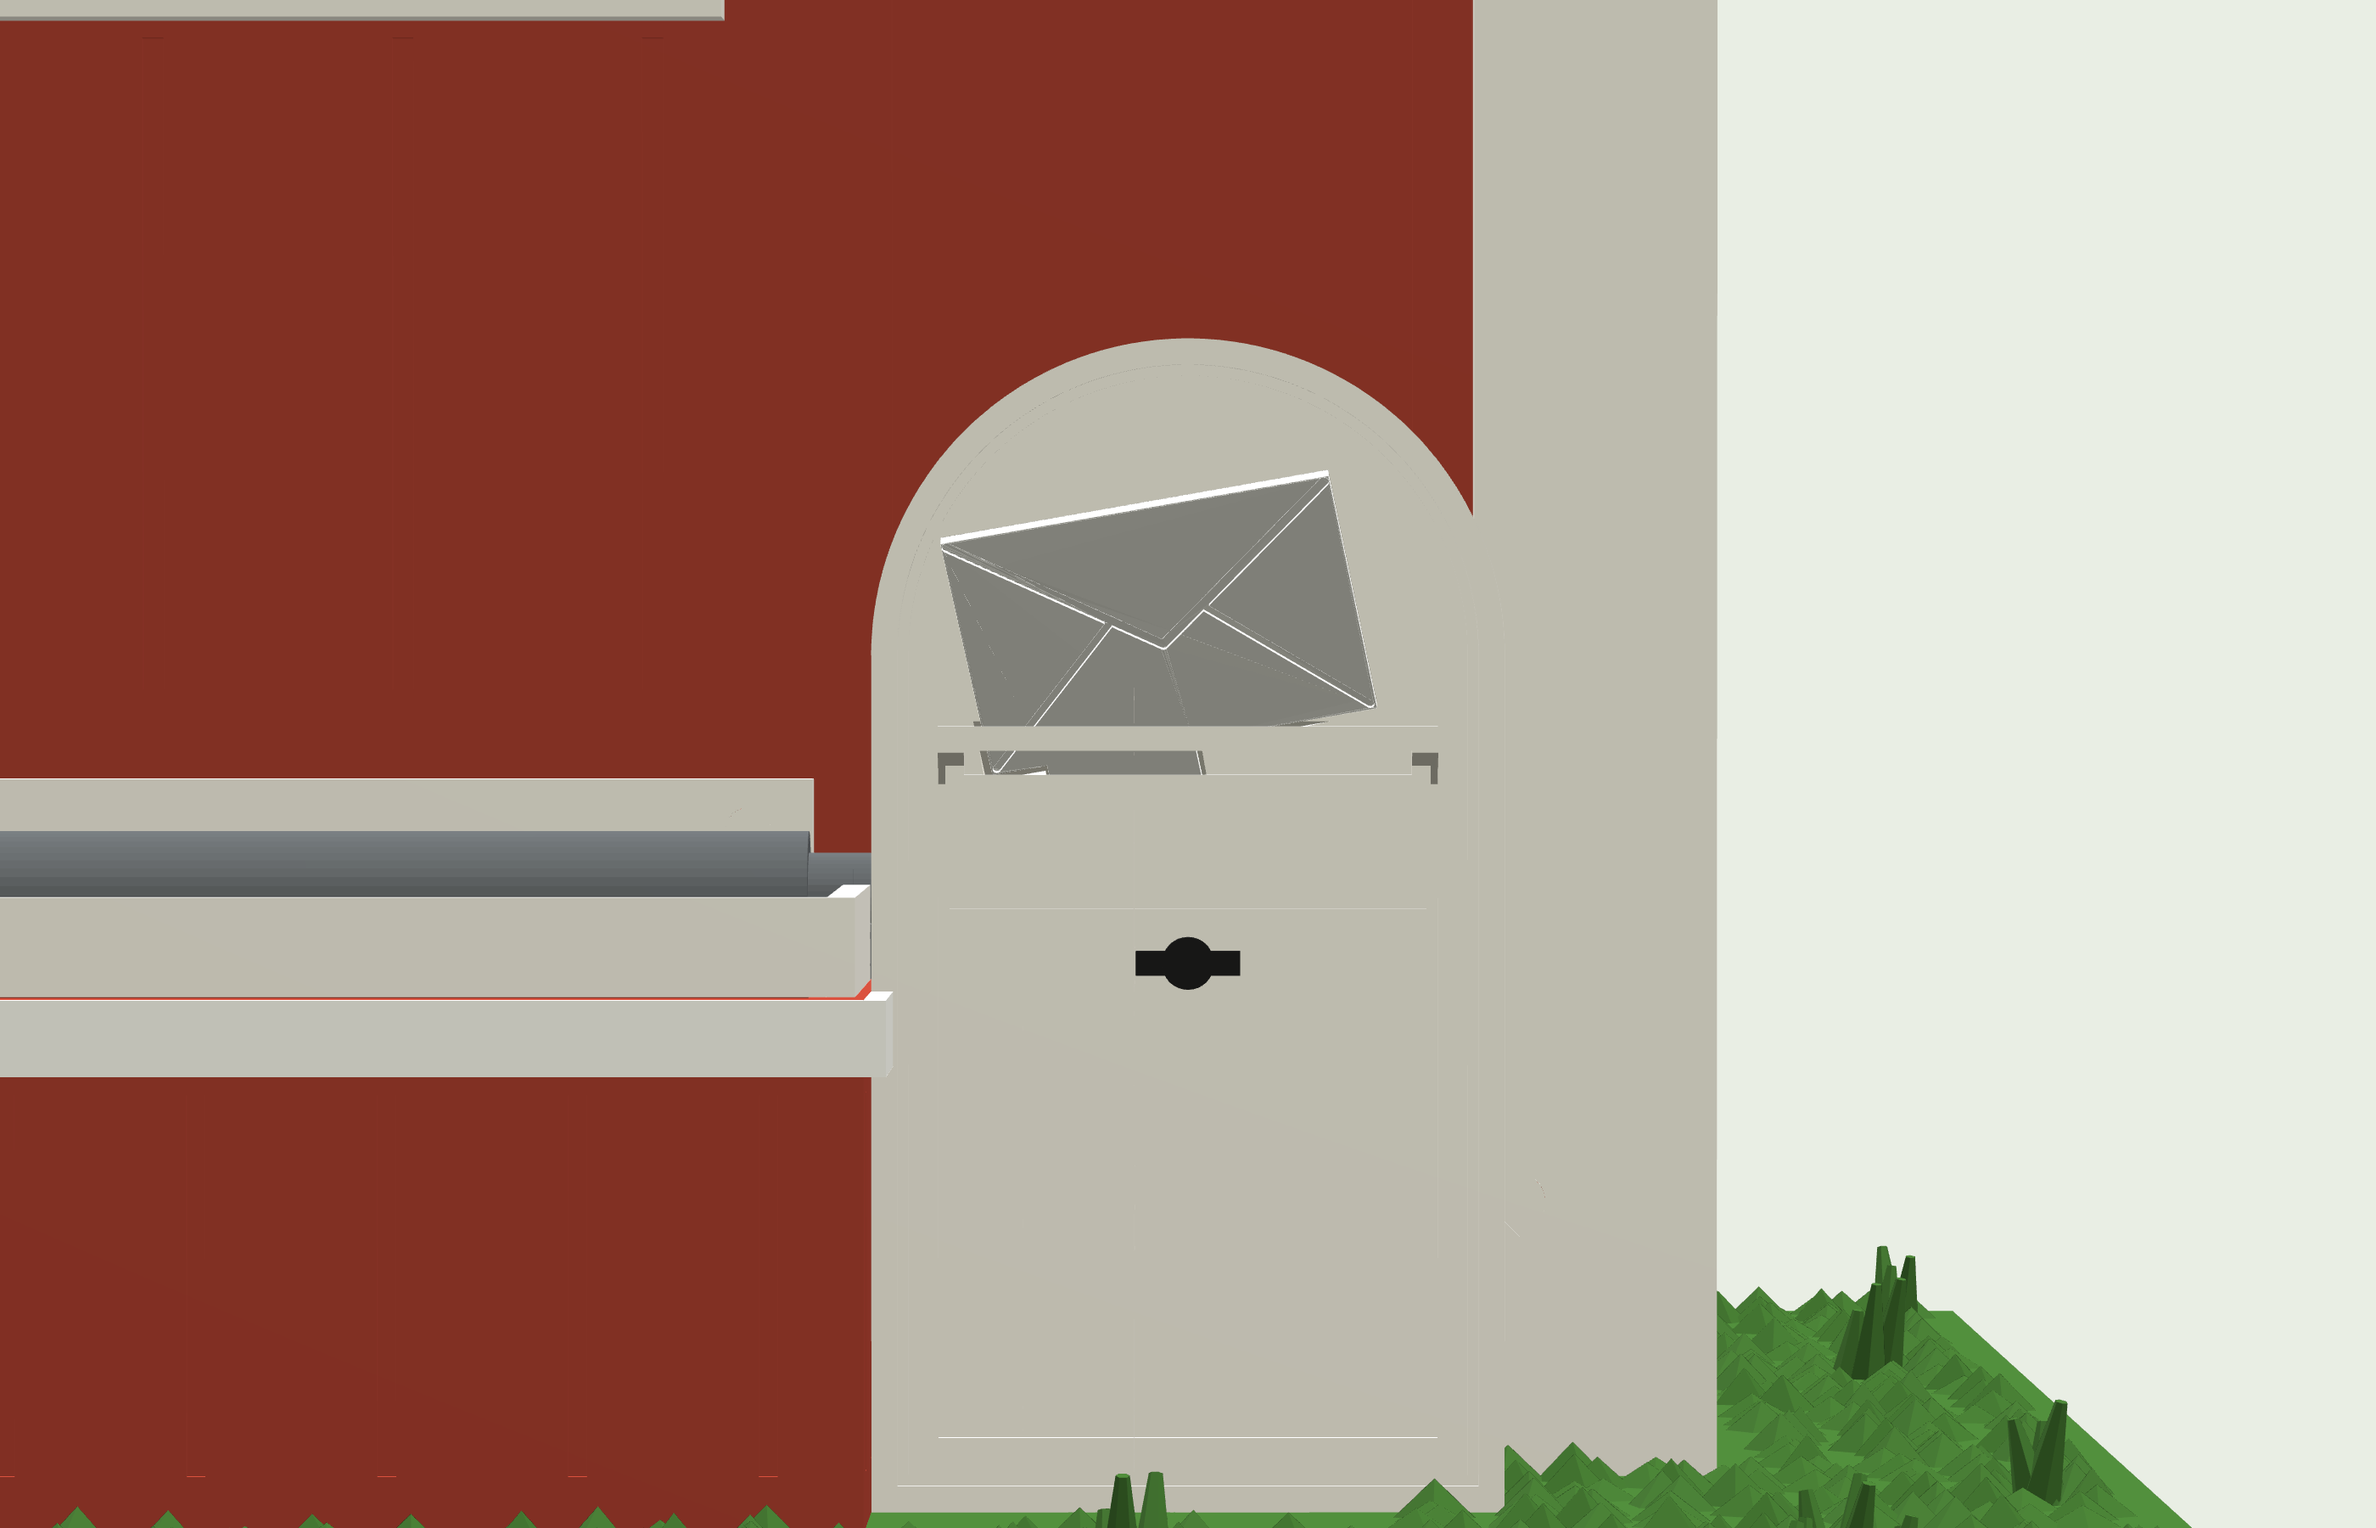
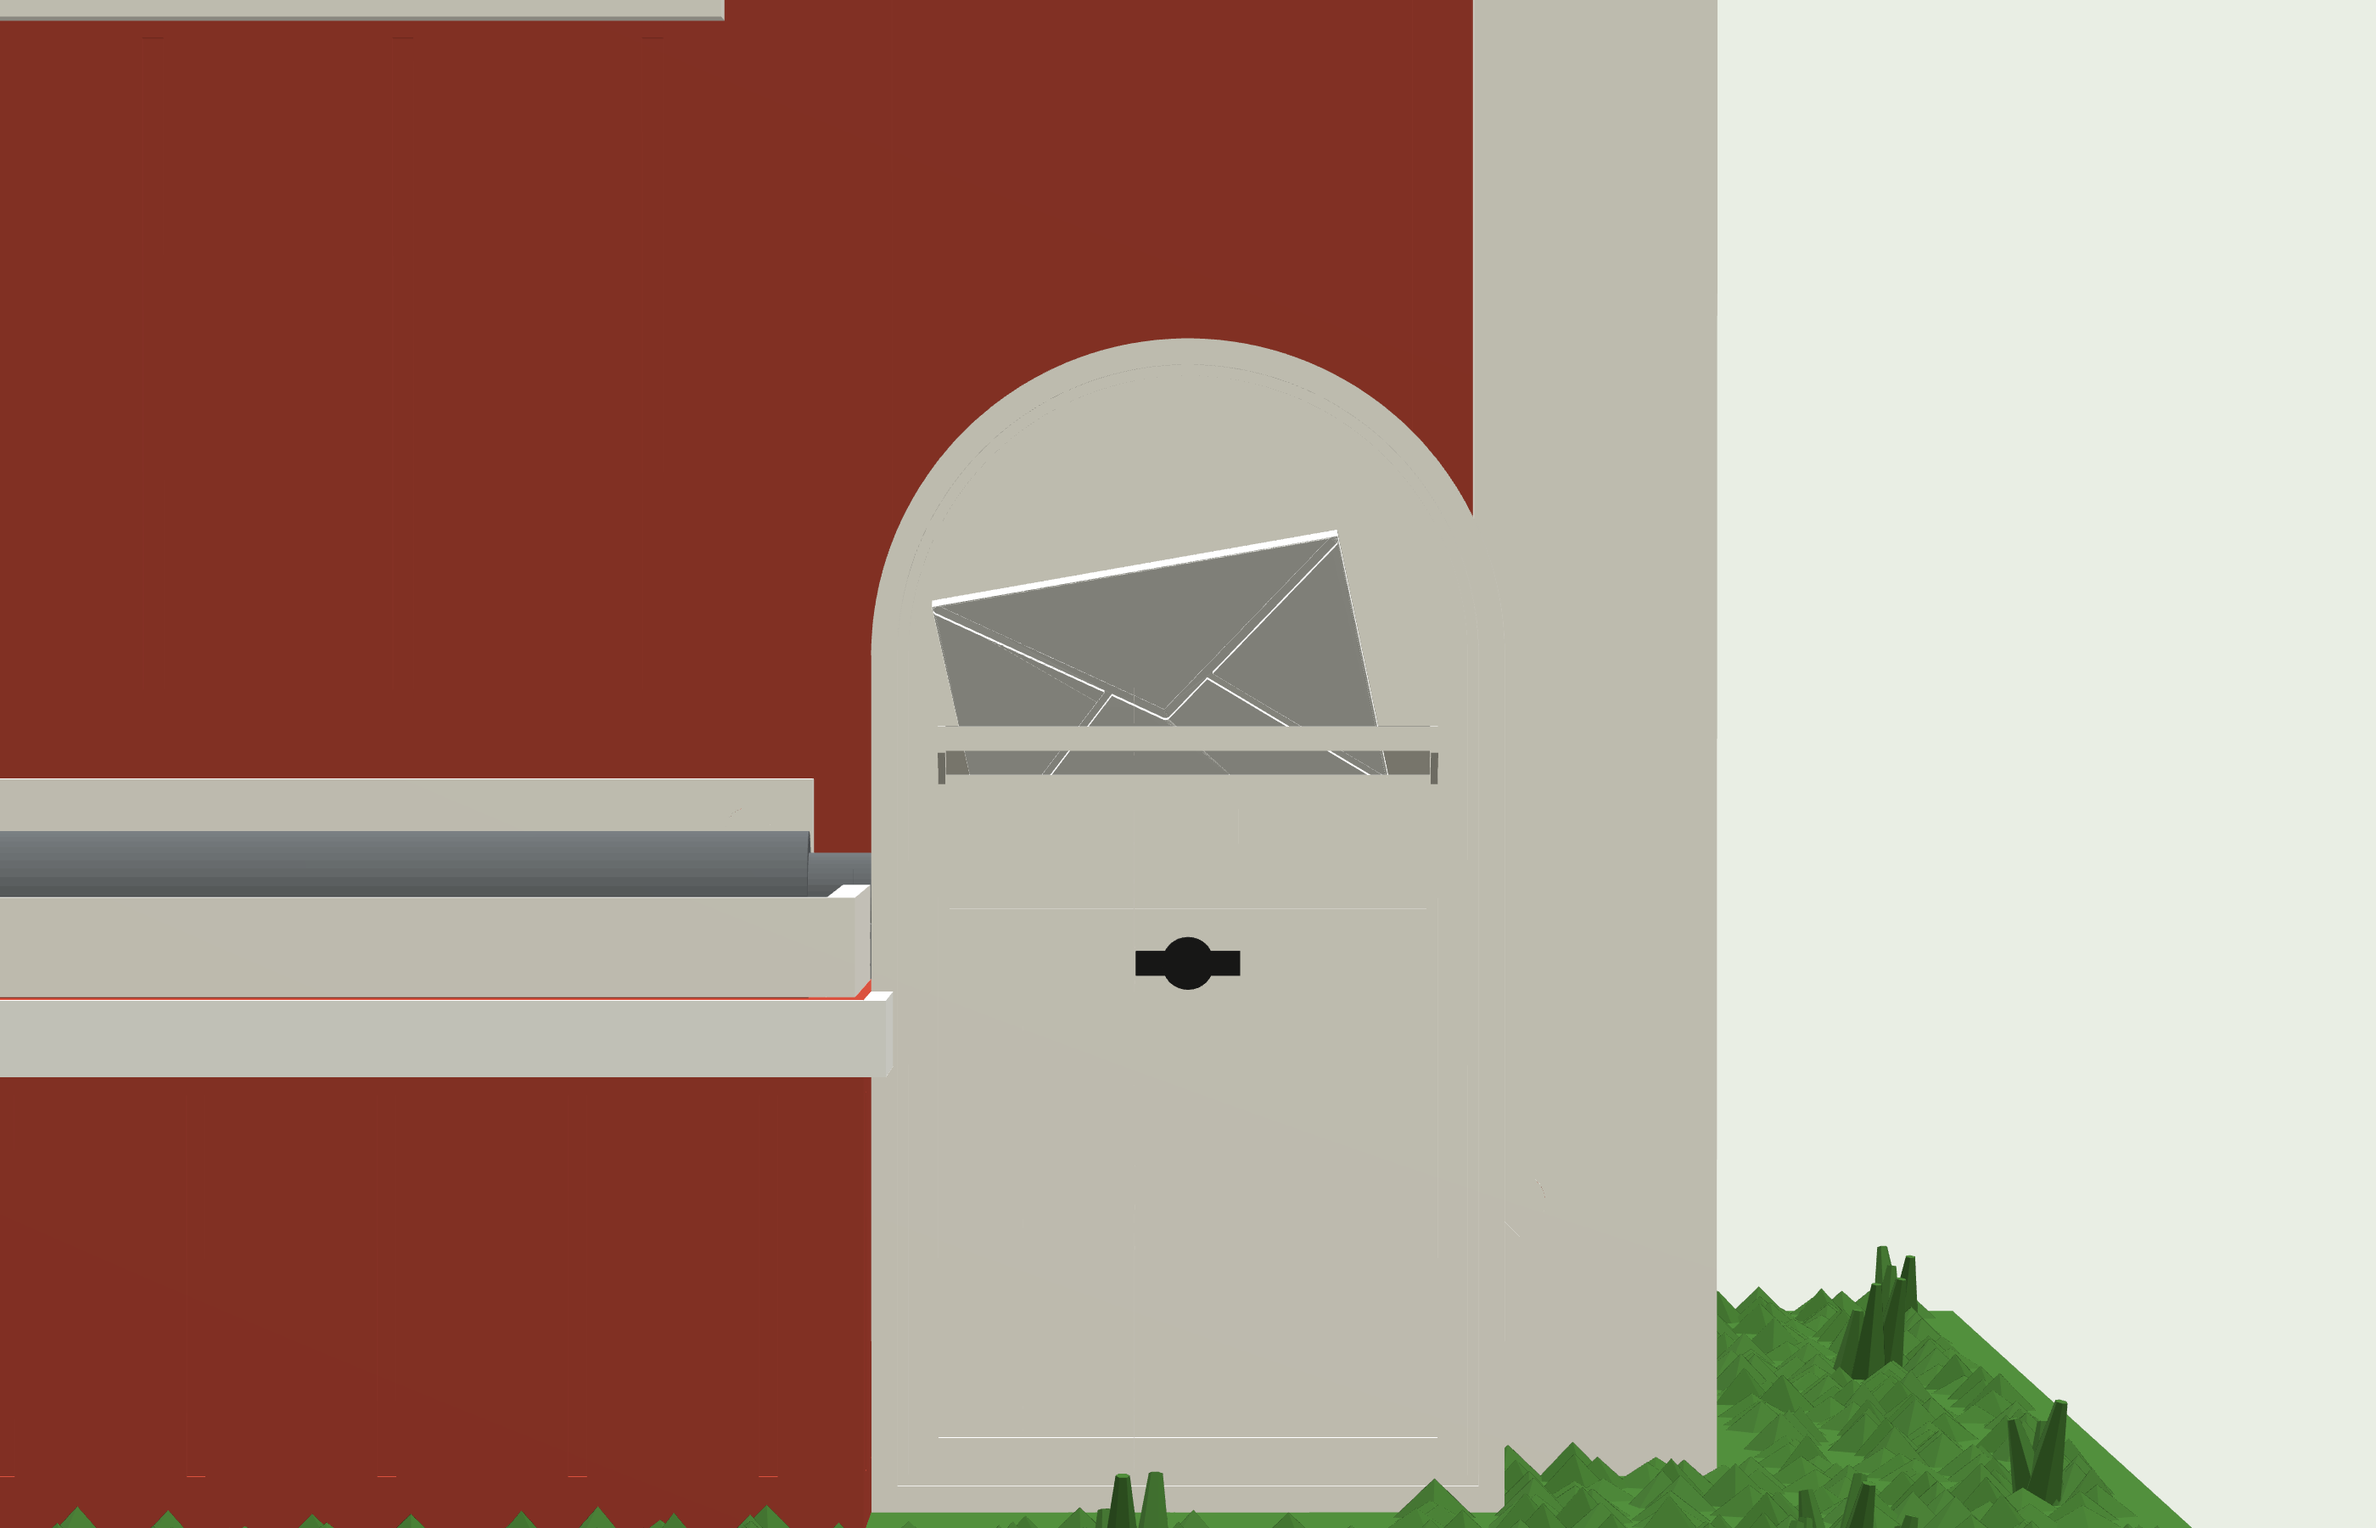
Skiss: löstagbart kuvert i en slits, avskuret rakt av springan
Claude-Session: https://claude.ai/code/session_018xksXR9gb4yYHdCGmvWeKU

Changed region(s): [[0.3729, 0.3111, 0.5593, 0.5289], [0.4971, 0.4356, 0.5904, 0.5289]]

diff --git a/cad/brevlada_kuvert_skiss.py b/cad/brevlada_kuvert_skiss.py
@@ -3,32 +3,41 @@ from shapely.geometry import Polygon, LineString
 src = open('/home/user/lennart/cad/brevlada.py').read().split('# ---------------- distans')[0]
 ns = {}; sys.argv = ['x', '/dev/null', '/dev/null']; exec(src, ns)
 U, D, box = ns['U'], ns['D'], ns['box']; body, hat, lock = ns['body'], ns['hat'], ns['lock']; fr = ns['Y0']; X0, X1 = ns['X0'], ns['X1']
-W, H, TH = 21.0, 14.0, 0.8           # kuvertet: bredd, höjd, tjocklek
+W, H, TH = 22.0, 15.0, 0.8           # kuvertet: bredd, höjd, tjocklek
 TILT, ROT = 64.0, 11.0               # lutning från horisontalplanet, vridning i planet
-TONG = (3.0, 11.0, 5.0)              # tunga in i lådan: u från, u till, längd
-P0 = np.array([46.5, fr + 0.6, 39.75])     # vänstra nedre hörnet, i springan
+UC, VC = 57.0, -2.6                  # kuvertets nederkant (mitt) i planet: x och avstånd under springan
+P0 = np.array([0.0, fr + 0.6, 39.75])     # springans linje i kuvertets plan (u = x)
+from shapely import affinity
 def frame():
-    t, r = np.radians(TILT), np.radians(ROT)
-    u0 = np.array([1.0, 0, 0]); v0 = np.array([0, -np.cos(t), np.sin(t)])
-    u = np.cos(r) * u0 + np.sin(r) * v0; v = -np.sin(r) * u0 + np.cos(r) * v0; n = np.cross(u, v)
-    return u, v, n
+    t = np.radians(TILT)
+    u = np.array([1.0, 0, 0]); v = np.array([0, -np.cos(t), np.sin(t)]); return u, v, np.cross(u, v)
 def plate(poly, th, off=0.0):
     u, v, n = frame()
     m = trimesh.creation.extrude_polygon(poly, th); m.apply_translation([0, 0, -th / 2 + off])
     T = np.eye(4); T[:3, 0], T[:3, 1], T[:3, 2], T[:3, 3] = u, v, n, P0
     m.apply_transform(T); return m
-env = Polygon([(0, 0), (W, 0), (W, H), (0, H)]).buffer(0.4, join_style=1).buffer(-0.4, join_style=1)
-tongue = Polygon([(TONG[0], -TONG[2]), (TONG[1], -TONG[2]), (TONG[1], 0.5), (TONG[0], 0.5)])
-letter = plate(env.union(tongue), TH)
-# fliken: V-formade linjer, 0,25 mm djupa på framsidan (mot betraktaren)
-flap = LineString([(0.3, H - 0.3), (W / 2, H * 0.42), (W - 0.3, H - 0.3)]).buffer(0.28)
-diag = [LineString([(0.3, 0.3), (W * 0.38, H * 0.55)]).buffer(0.22), LineString([(W - 0.3, 0.3), (W * 0.62, H * 0.55)]).buffer(0.22)]
-groove = plate(flap.union(diag[0]).union(diag[1]).intersection(env), 0.5, off=TH / 2)   # n pekar mot betraktaren: spåren på framsidan
+def place(g):   # kuvertets egna koordinater (a, b) -> planet (u, v)
+    g = affinity.translate(g, -W / 2, 0); g = affinity.rotate(g, ROT, origin=(0, 0)); return affinity.translate(g, UC, VC)
+rect = place(Polygon([(0, 0), (W, 0), (W, H), (0, H)]).buffer(0.4, join_style=1).buffer(-0.4, join_style=1))
+SL = -0.7                                                     # det synliga slutar strax under springans linje (dolt under läppen)
+synl = rect.intersection(Polygon([(-100, SL), (200, SL), (200, 100), (-100, 100)]))
+TU0, TU1, TL = 60.0, 67.0, 8.0                               # tungan: x från, x till, längd under springan
+tongue = Polygon([(TU0, -TL), (TU1, -TL), (TU1, SL + 0.01), (TU0, SL + 0.01)]).buffer(0.5, join_style=1).buffer(-0.5, join_style=1).intersection(Polygon([(TU0, -TL), (TU1, -TL), (TU1, SL + 0.01), (TU0, SL + 0.01)])).union(Polygon([(TU0, -1.5), (TU1, -1.5), (TU1, SL + 0.01), (TU0, SL + 0.01)]))
+letter = plate(synl.union(tongue), TH)
+# fliken: V-linjer och sidovikar, 0,25 mm djupa på framsidan
+lines = LineString([(0.3, H - 0.3), (W / 2, H * 0.42), (W - 0.3, H - 0.3)]).buffer(0.28).union(
+        LineString([(0.3, 0.3), (W * 0.38, H * 0.55)]).buffer(0.22)).union(LineString([(W - 0.3, 0.3), (W * 0.62, H * 0.55)]).buffer(0.22))
+groove = plate(place(lines).intersection(synl), 0.5, off=TH / 2)
 u, v, n = frame(); print('normal', np.round(n, 2))
 letter = D(letter, [groove])
 # kanal i framväggen för tungan (+0,25 spel) och mörk springa under läppen
-chan = plate(Polygon([(TONG[0] - 0.25, -TONG[2] - 1), (TONG[1] + 0.25, -TONG[2] - 1), (TONG[1] + 0.25, 1.5), (TONG[0] - 0.25, 1.5)]).union(Polygon([(-0.5, -0.8), (W + 0.5, -0.8), (W + 0.5, 3.0), (-0.5, 3.0)])), TH + 0.5)
-gap = box(X0 + 5.0, X1 - 5.0, fr - 2.0, fr + 0.6, 39.6, 40.9)
+CL = 0.15                                                      # spel per sida i slitsen (kuvertet ska gå att dra ur)
+chan = plate(Polygon([(TU0 - 0.3, -TL - 0.6), (TU1 + 0.3, -TL - 0.6), (TU1 + 0.3, 1.5), (TU0 - 0.3, 1.5)]).union(Polygon([(X0 + 4.0, SL - 0.3), (X1 - 4.0, SL - 0.3), (X1 - 4.0, 3.0), (X0 + 4.0, 3.0)])), TH + 2 * CL)
+u_, v_, n_ = frame()
+hyl = trimesh.convex.convex_hull(np.vstack([P0 + a * u_ + b * v_ + c * n_ for a in (TU0 - 2.0, TU1 + 2.0) for b in (-TL - 1.8, -0.5) for c in (-2.0, 2.0)]))
+hyl = trimesh.boolean.intersection([hyl, box(X0 + 2, X1 - 2, fr + 2 - 0.01, fr + 2 + 6.0, 2, ns['ZT'])], engine='manifold')
+body = U([body, hyl])
+gap = box(X0 + 4.0, X1 - 4.0, fr - 2.0, fr + 0.6, 39.6, 40.9)
 body2 = D(body, [chan, gap])
 I = lambda a, b: trimesh.boolean.intersection([a, b], engine='manifold')
 print('brev/låda', round(I(letter, body2).volume, 3), 'brev/lock', round(I(letter, hat).volume, 3), 'brev bounds', np.round(letter.bounds, 1).tolist())
@@ -38,11 +47,17 @@ letter.export('brev_asm.stl'); body2.export('lada_med_springa.stl')
 G = json.load(open('../render/geo_alt.json'))
 def put(k, m): G[k] = np.round(m.vertices[m.faces].reshape(-1), 2).tolist()
 put('l_lada', body2); put('l_lock', hat); put('l_handtag', lock); put('l_brev', letter)
+letter_print = letter
 json.dump(G, open('../render/geo_brev_kuvert.json', 'w'))
 S0 = json.load(open('../render/shots_brev2.json'))[0]['o']
 base = [s for s in S0['show'] if s[0] not in ('vit', 'tak', 'handtag')] + [['vit_utan', '#F2F2EE']]
 sh = base + [['l_lada', '#EEEBE3'], ['l_lock', '#EEEBE3'], ['l_handtag', '#1A1A1A'], ['l_brev', '#FFFFFF']]
-json.dump([{'file': 'kuvert_snett.png', 'o': dict(S0, title='Brev i brevinkastet', sub='Ett tunt kuvert (21 × 14 mm, 0,8 mm tjockt) sticker snett upp ur springan. En tunga går in i en kanal genom framväggen.', show=sh)},
+sh0 = [x for x in sh if x[0] != 'l_brev']
+json.dump([{'file': 'kuvert_snett.png', 'o': dict(S0, title='Löstagbart kuvert', sub='Kuvertet (22 × 15 mm) trycks ner i en lutande slits under läppen och sitter med friktion. Ingen lim.', show=sh)},
            {'file': 'kuvert_fram.png', 'o': dict(S0, title='', sub='', show=sh, pos=[57, -700, 48], at=[57, -15, 40], fov=7)},
+           {'file': 'kuvert_utan.png', 'o': dict(S0, title='', sub='', show=sh0, pos=[57, -700, 48], at=[57, -15, 40], fov=7)},
            {'file': 'kuvert_sida.png', 'o': dict(S0, title='', sub='', show=sh, pos=[500, -40, 48], at=[57, -30, 44], fov=9)}],
           open('../render/shots_kuvert.json', 'w'), ensure_ascii=False)
+car = ns['carrier'](0.0)
+sw = U([car.copy().apply_translation([0, 0, dz]) for dz in np.arange(0, 50, 1.0)])
+print('hylsa/bricka (sänkning)', round(I(hyl, sw).volume, 2), 'hylsa/servo', round(I(hyl, sv).volume, 2), 'hylsa x', np.round(hyl.bounds[:, 0], 1))
